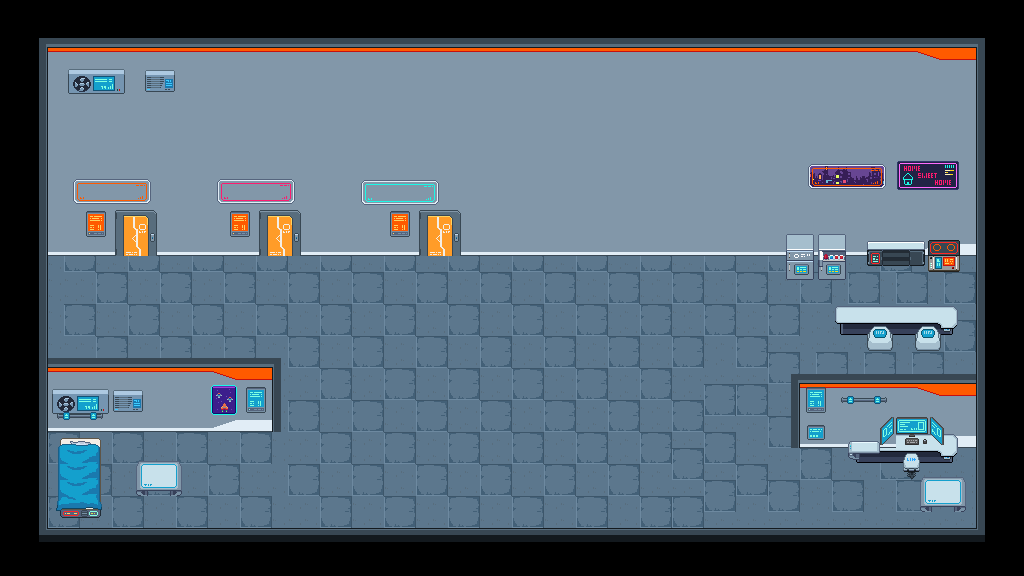
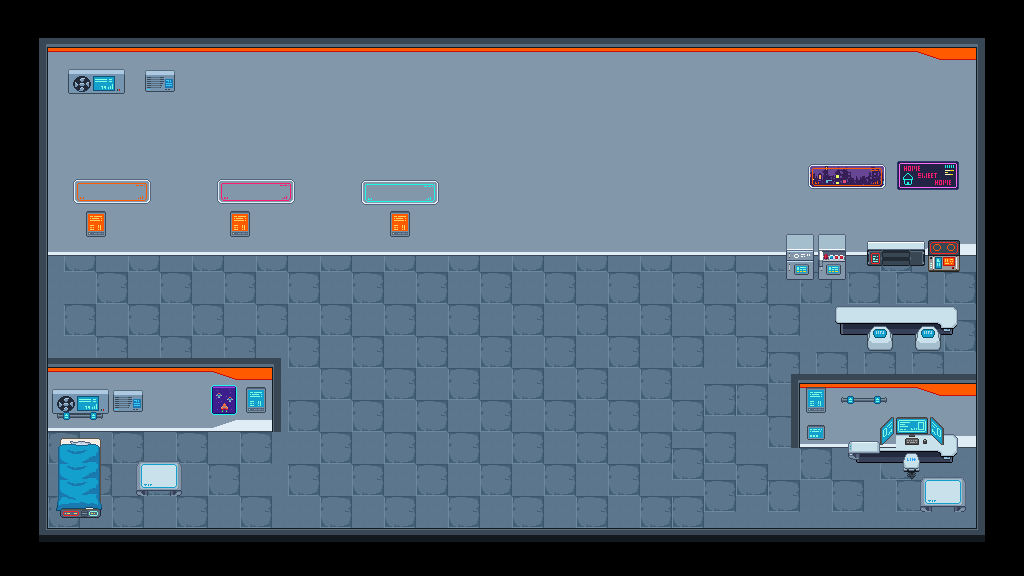
[ADD] => adding the doors

Changed region(s): [[0.4062, 0.3438, 0.4688, 0.4688], [0.25, 0.3438, 0.3125, 0.4688], [0.0938, 0.3438, 0.1562, 0.4688]]

diff --git a/game-portfolio/src/main.ts b/game-portfolio/src/main.ts
@@ -25,6 +25,33 @@ const background = new Sprite({
   animations: null,
 });
 
+const doors = [
+  new Sprite({
+    position: { x: 116, y: 205 },
+    path: "src/assets/maps/doorClosen.png",
+    width: 51,
+    height: 55,
+    frameRate: 1,
+    animations: null,
+  }),
+  new Sprite({
+    position: { x: 260, y: 205 },
+    path: "src/assets/maps/doorClosen.png",
+    width: 51,
+    height: 55,
+    frameRate: 1,
+    animations: null,
+  }),
+  new Sprite({
+    position: { x: 420, y: 205 },
+    path: "src/assets/maps/doorClosen.png",
+    width: 51,
+    height: 55,
+    frameRate: 1,
+    animations: null,
+  }),
+];
+
 const allPlayersSheet: { [key: string]: string } = {
   walk_left: "src/assets/img/hero/walk_left.png",
   walk_right: "src/assets/img/hero/walk_right.png",
@@ -108,6 +135,11 @@ export const animatePlayer = (): void => {
   // background
   background.draw(canvasSurface);
 
+  // doors
+  doors.forEach((door) => {
+    door.draw(canvasSurface);
+  });
+
   // player's movements
   player.velocity = { x: 0, y: 0 };
   if (KEYS.z.isPressed) {
@@ -133,7 +165,7 @@ export const animatePlayer = (): void => {
   player.draw(canvasSurface);
   player.update(canvas, canvasSurface);
   cameraTracking(canvas, player);
-  // console.log(player.position);
+  console.log(player.position);
 };
 
 animatePlayer();
